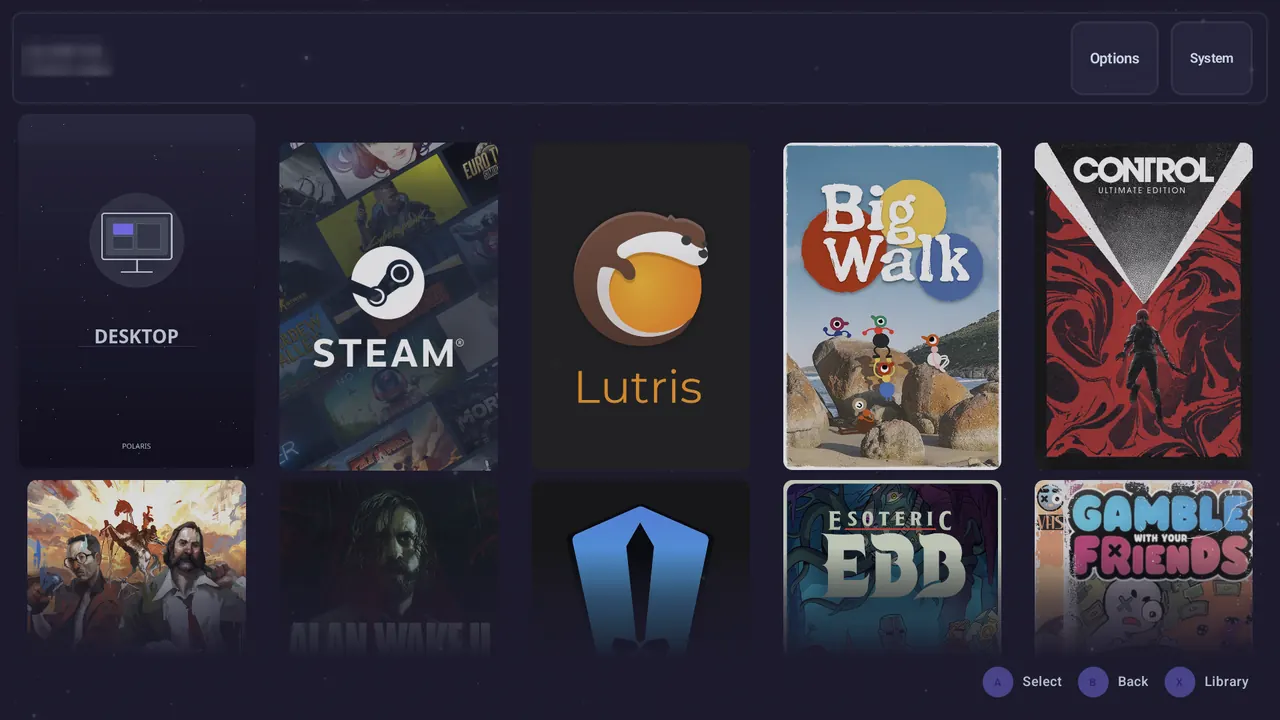
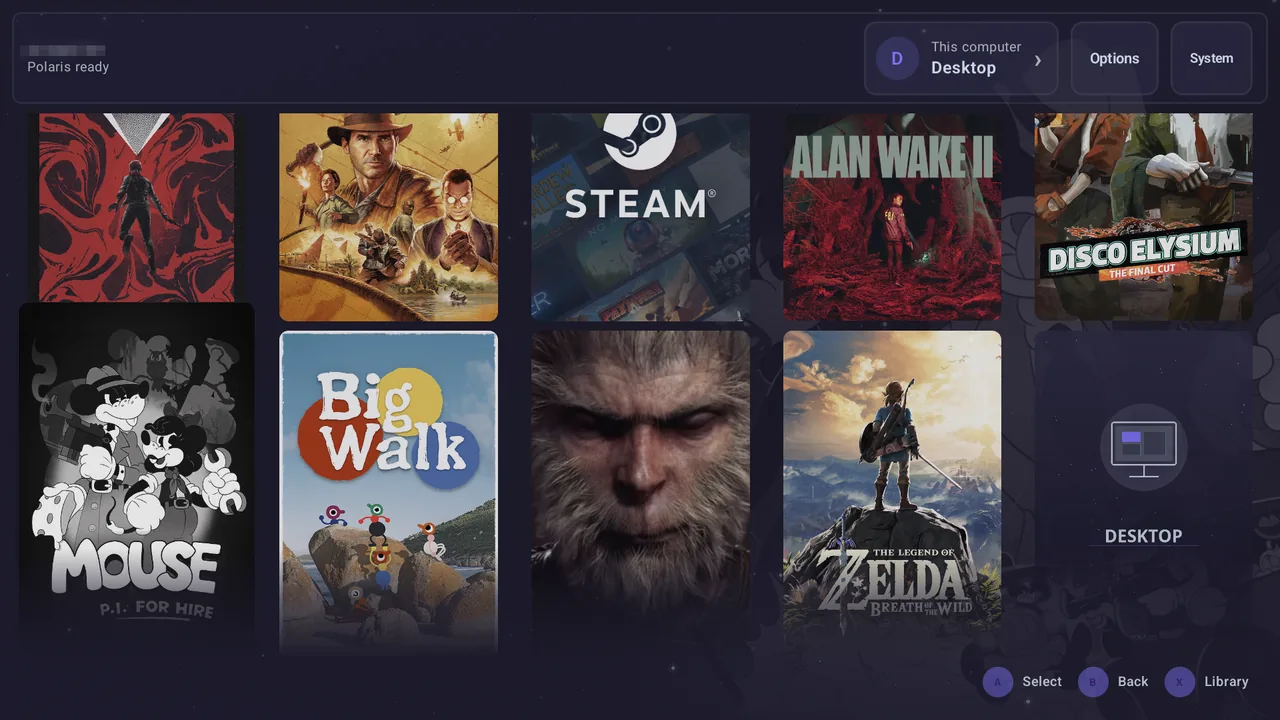
docs(readme): show the library that looks like a library (#344)
The README's Library still led with an empty grey Desktop tile and two launcher logos, so the first
thing anyone saw of Nova was a launcher picker. This is the same screen with the library scrolled one
row: nine of its ten tiles are cover art, Big Walk holds focus with the controller legend under it
explaining itself, and the top bar carries the destination chip that answers the question the whole
screen exists for, which is where the game will open.

Shot on the Retroid Pocket 6 running the signed 1.4.12 APK from the release, checksum verified against
the published asset, against the packaged host, so it shows what someone actually installs. The host
name line is pixelated the same way as the rest of the set and the file keeps the set's 1280x720 size.

The same asset and its provenance go up on the site in papi-ux.github.io#84.

diff --git a/README.md b/README.md
@@ -35,7 +35,7 @@ too.
 > handhelds, phones, and Android TV are the supported client boundary; Nova is
 > not a Windows, macOS, or iOS client.
 
-![Nova Polaris Aurora Library with Control selected in a grid of cover art, beside the Desktop entry and the launcher tiles](docs/screenshots/nova-library-aurora-v1.4.12.webp)
+![Nova Polaris Aurora Library on a Retroid Pocket 6, Big Walk in focus, the chip naming where it opens](docs/screenshots/nova-library-aurora-v1.4.12.webp)
 
 ## Built for the whole player loop
 
